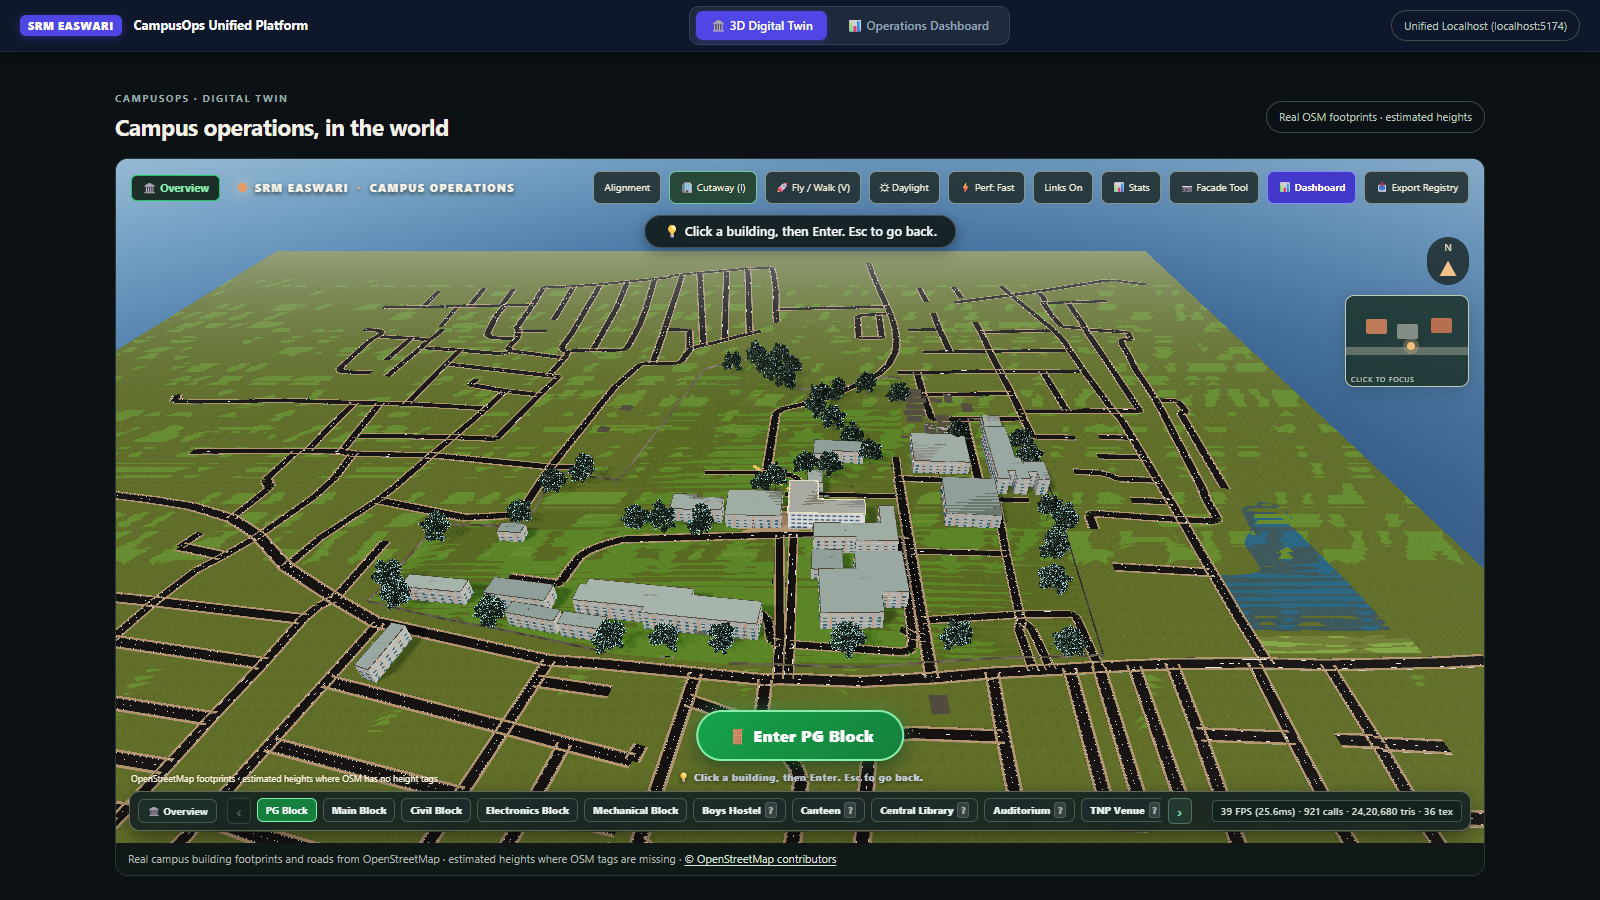
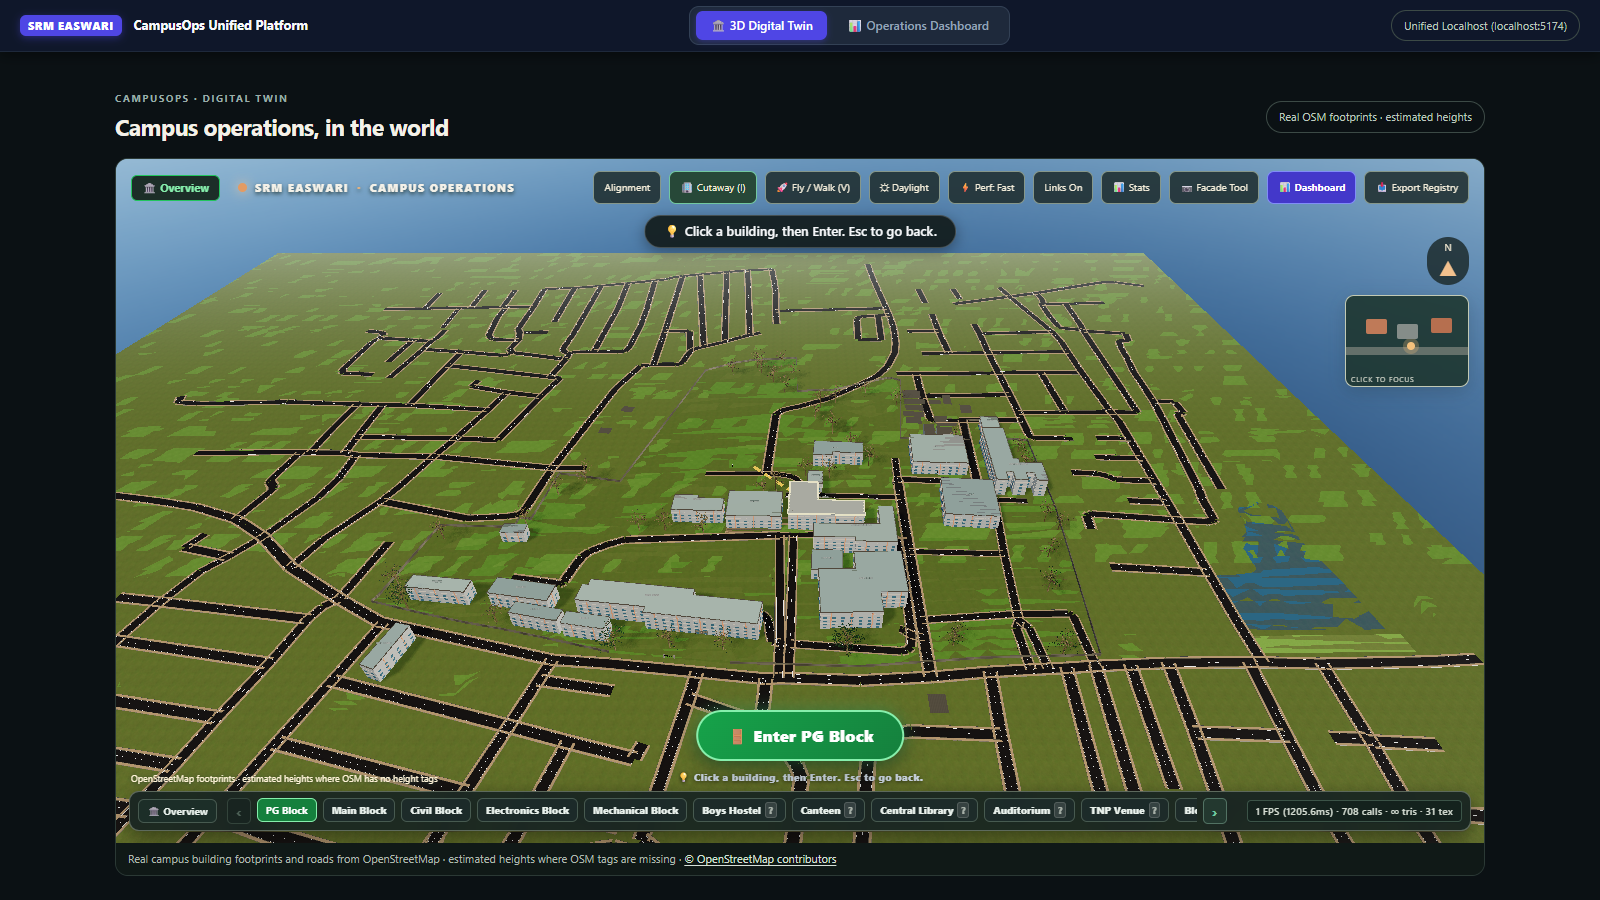
fix: remove leaf glowing edge fringe by tuning alphaTest to 0.52, removing alphaToCoverage and maximizing matte roughness

Changed region(s): [[0.0625, 0.28, 0.9375, 0.9333], [0.125, 0.9022, 0.1875, 0.9333]]

diff --git a/src/views/CampusWorld.tsx b/src/views/CampusWorld.tsx
@@ -859,7 +859,7 @@ function CampusTrees({ data, textures, quality }: { data: OsmCampusData; texture
       raw.seed = seed;
       raw.leaves.size = 3.4;
       raw.leaves.count = 42;
-      raw.leaves.alphaTest = 0.2;
+      raw.leaves.alphaTest = 0.52;
       if (idx === 1) { raw.branch.angle[1] = 50; }
       if (idx === 2) { raw.branch.angle[1] = 58; }
       if (idx === 3) { raw.branch.angle[1] = 46; }
@@ -1062,12 +1062,11 @@ function CampusTrees({ data, textures, quality }: { data: OsmCampusData; texture
       return new MeshStandardMaterial({
         map: model?.leafMap,
         color: new Color(tint),
-        alphaTest: 0.2,
-        alphaToCoverage: true,
+        alphaTest: 0.52,
         transparent: false,
         depthWrite: true,
         side: DoubleSide,
-        roughness: 0.95,
+        roughness: 1.0,
         metalness: 0.0,
       });
     });
